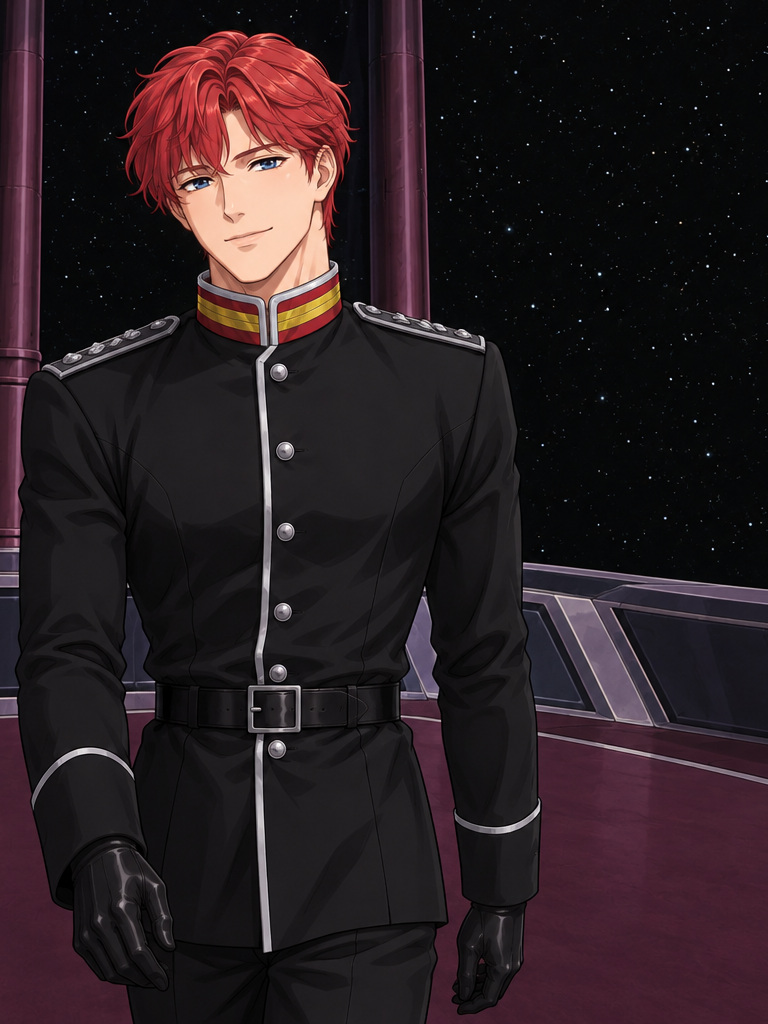
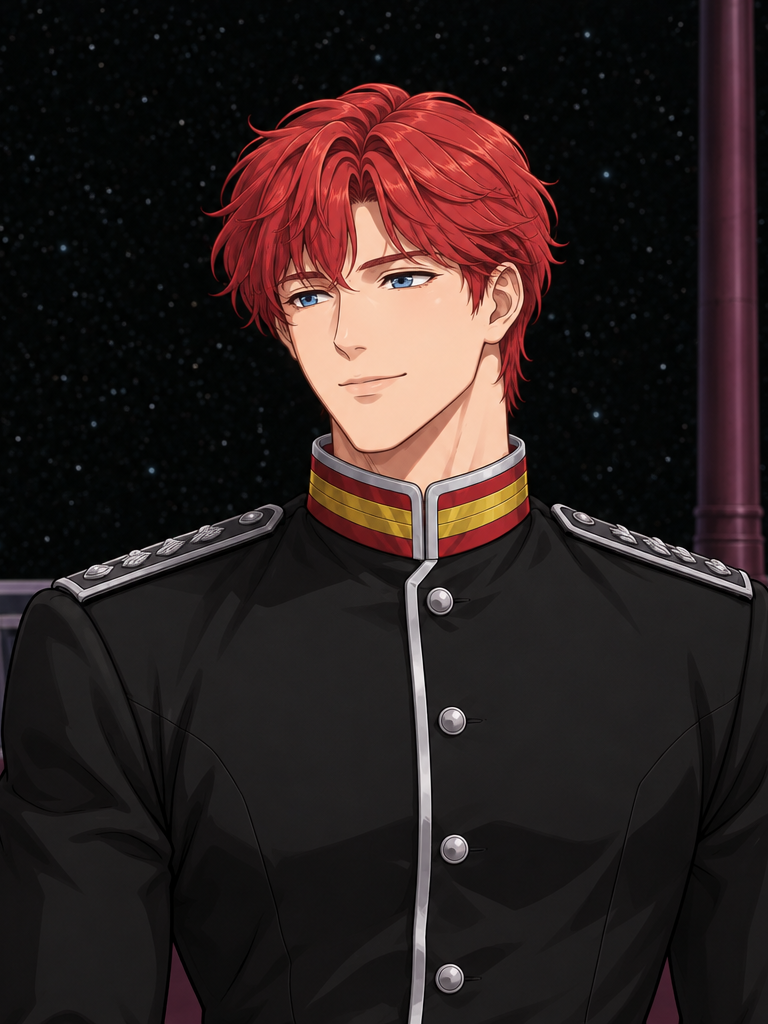
대사 컷 3장: 17 수정, 20a 추가, 21 수정

diff --git a/index.html b/index.html
@@ -36,7 +36,7 @@ fetch(encodeURIComponent('웹소설대본_컷16-21.txt')+'?v='+Date.now()).then(
   for(const l of lines){
     if(l.startsWith('[그림:')){
       started=true;
-      const num=(l.match(/컷\s*(\d+)/)||[])[1];
+      const num=(l.match(/컷\s*(\d+[a-z]?)/)||[])[1];
       const fig=document.createElement('div');fig.className='fig';
       fig.innerHTML='<span class="cutno">1화 '+num+'컷</span><img alt="1화 '+num+'컷" src="'+encodeURIComponent('01화_컷'+num+'.png')+'?v='+Date.now()+'">';
       story.appendChild(fig);blank=0;continue;
